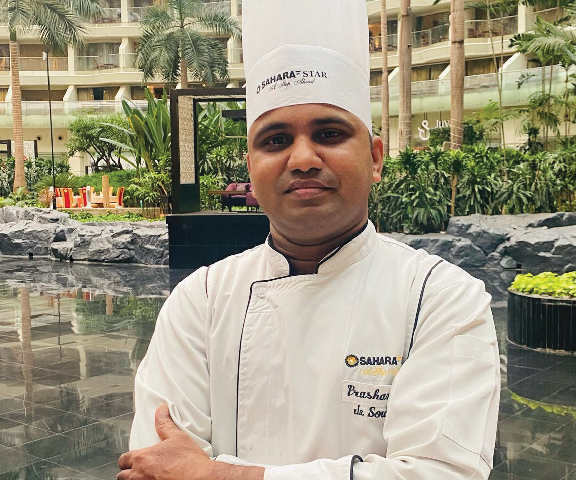
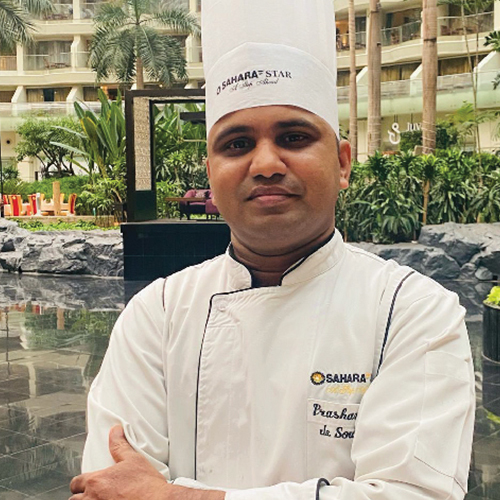
changes

diff --git a/css/app.css b/css/app.css
@@ -1062,6 +1062,7 @@ footer .footer-social-link > li > a > img {
 .about-us-wrapper {
   padding-bottom: 30px;
   text-align: center;
+  padding-top: 30px;
 }
 .course-heading-wrapper h2,
 .about-us-wrapper h2 {
@@ -1266,7 +1267,7 @@ footer .footer-social-link > li > a > img {
   cursor: pointer;
   display: grid;
   column-gap: 30px;
-  grid-template-columns: auto auto auto;
+  grid-template-columns: 33.33% 33.33% 33.33%;
   justify-content: center;
 }
 .advisory-wrapper li,
@@ -1294,7 +1295,6 @@ footer .footer-social-link > li > a > img {
 .advisory-wrapper li > div .img-wrapper,
 .management-team-ul li > div .img-wrapper {
   display: block;
-  height: 200px;
   overflow: hidden;
   border: 5px solid #fff;
   border-bottom: 0;
@@ -2891,6 +2891,18 @@ body.modal-open {
 
 .footer-btn > :first-child {
   margin-right: 15px;
+}
+
+#demo {
+  height: calc(100vh - 90px);
+  overflow: hidden;
+}
+#demo .carousel-inner {
+  height: calc(100vh - 90px);
+  overflow: hidden;
+}
+#demo .carousel-inner .carousel-item {
+  height: calc(100vh - 90px);
 }
 
 @media (max-width: 768px) {

diff --git a/css/app.scss b/css/app.scss
@@ -1319,6 +1319,7 @@ footer {
 
     padding-bottom: 30px;
     text-align: center;
+    padding-top: 30px;
 
 
     h2 {
@@ -1570,7 +1571,7 @@ footer {
     display: grid;
     column-gap: 30px;
     // grid-template-columns: auto auto auto auto auto;
-    grid-template-columns: auto auto auto;
+    grid-template-columns: 33.33% 33.33% 33.33%;
     // display: flex;
     // flex-wrap: wrap;
     justify-content: center;
@@ -1610,7 +1611,7 @@ footer {
 
             .img-wrapper {
                 display: block;
-                height: 200px;
+                // height: 200px;
                 overflow: hidden;
                 border: 5px solid #fff;
                 border-bottom: 0;
@@ -3579,6 +3580,18 @@ body.modal-open {
 .footer-btn {
     &>:first-child {
         margin-right: 15px;
+    }
+}
+
+#demo {
+    height: calc(100vh - 90px);
+    overflow: hidden;
+    .carousel-inner {
+        height: calc(100vh - 90px);
+        overflow: hidden;
+        .carousel-item {
+            height: calc(100vh - 90px);
+        }
     }
 }
 

diff --git a/index.html b/index.html
@@ -42,7 +42,6 @@
 
     <div class="main-layout-wrapper">
 
-
         <!-- desktop view -->
         <nav class="navbar navbar-expand-lg fixed-top lg-nav">
             <div class="container-fluid custom-container">
@@ -287,7 +286,6 @@
             </div>
         </nav>
 
-
         <!-- mobile view -->
         <nav class="navbar navbar-expand-lg navbar-light bg-light fixed-top xs-nav">
             <div class="container navigation">
@@ -436,8 +434,6 @@
             </div>
 
             <div class="carousel-inner">
-
-
 
                 <div class="carousel-item active">
                     <img src="img/home/banner/as-banner.jpg" alt="INDIA'S ONLY HOTEL SCHOOL" class="d-block home-d-img"
